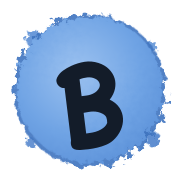
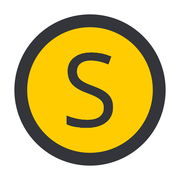
Лого SHMORKIZ: пігулка в сайдбарі й на логіні, кругле «S» для іконок
Сайдбар показує саму пігулку на висоті лого Workiz (80×26), без набраної
назви поруч; у згорнутому рейлі вона гасне, а на тому ж лівому краї
проявляється кругле «S», тож при анімації нічого не стрибає. Логін — та сама
пігулка, 44px.

Квадратним місцям (favicon, apple-icon, PWA 192/512/maskable) пігулка 3:1 не
влазить, тому там знак у кольорах лого: жовте коло в темному обідку з «S»,
вирізаною з самого лого. Усе генерує apps/web/design/make-icons.py з
shmorkiz-logo.png; старе джерело синього «B» (favicon.svg) прибране.

Назва застосунку в title/manifest лишилась BitCRM.

diff --git a/apps/web/components/shell/app-sidebar.test.tsx b/apps/web/components/shell/app-sidebar.test.tsx
@@ -36,23 +36,45 @@ describe("AppSidebar", () => {
     permissionsMock.mockReturnValue({ can: () => true, isTechnician: false });
     renderSidebar();
 
-    const homeLink = screen.getByRole("link", { name: "BitCRM home" });
+    const homeLink = screen.getByRole("link", { name: "Shmorkiz home" });
     expect(homeLink.querySelector("img")).not.toBeNull();
+  });
+
+  /**
+   * The logo is the SHMORKIZ pill, drawn the way Workiz draws its own: the
+   * wordmark alone, 26px tall (Workiz's is 80×26), with no name typed beside
+   * it — the pill already says it.
+   */
+  it("shows the Shmorkiz pill at Workiz's logo height and no typed name", () => {
+    permissionsMock.mockReturnValue({ can: () => true, isTechnician: false });
+    renderSidebar();
+
+    const homeLink = screen.getByRole("link", { name: "Shmorkiz home" });
+    const wordmark = homeLink.querySelector('[data-slot="brand-wordmark"]');
+    expect(wordmark?.tagName).toBe("IMG");
+    expect(wordmark?.className).toContain("h-[26px]");
+    expect(screen.queryByText("BitCRM")).toBeNull();
   });
 
   it("keeps the logo pinned during collapse instead of re-centering it", () => {
     permissionsMock.mockReturnValue({ can: () => true, isTechnician: false });
     renderSidebar();
 
-    const homeLink = screen.getByRole("link", { name: "BitCRM home" });
+    const homeLink = screen.getByRole("link", { name: "Shmorkiz home" });
     // No per-state alignment switch — a justify/padding swap is what made the
     // icon jump while the sidebar width animated.
     expect(homeLink.className).not.toContain("justify-center");
     expect(homeLink.className).toContain("overflow-hidden");
-    // The wordmark clips/fades out instead of popping from the layout.
-    expect(screen.getByText("BitCRM").className).toContain(
-      "group-data-[collapsible=icon]:opacity-0",
-    );
+    // The pill is too wide for the collapsed rail, so it clips/fades out
+    // instead of popping from the layout…
+    const wordmark = homeLink.querySelector('[data-slot="brand-wordmark"]');
+    expect(wordmark?.className).toContain("group-data-[collapsible=icon]:opacity-0");
+    // …while the round S mark fades in over the same left edge.
+    const mark = homeLink.querySelector('[data-slot="brand-mark"]');
+    expect(mark?.tagName).toBe("IMG");
+    expect(mark?.className).toContain("opacity-0");
+    expect(mark?.className).toContain("group-data-[collapsible=icon]:opacity-100");
+    expect(mark?.className).toContain("absolute");
   });
 
   it("renders a compact New Job button that collapses smoothly with the sidebar", () => {
@@ -289,7 +311,7 @@ describe("AppSidebar", () => {
   it("puts the rule exactly where the header's border is", () => {
     renderSidebar();
 
-    const brand = screen.getByLabelText("BitCRM home");
+    const brand = screen.getByLabelText("Shmorkiz home");
     expect(brand.className).toContain("h-12"); // 48px + the header's p-2 = 56px
   });
 });

diff --git a/apps/web/components/shell/app-sidebar.tsx b/apps/web/components/shell/app-sidebar.tsx
@@ -3,6 +3,7 @@
 import Image from "next/image";
 import Link from "next/link";
 import icon from "@/app/icon.png";
+import wordmark from "@/components/brand/wordmark.png";
 import { usePathname } from "next/navigation";
 import {
   Sidebar,
@@ -61,26 +62,35 @@ export function AppSidebar() {
   return (
     <Sidebar collapsible="icon">
       <SidebarHeader>
-        {/* Constant padding keeps the icon's x-position identical in both
-            sidebar states, so nothing jumps while the width animates; the
-            wordmark clips (overflow-hidden) and fades instead of popping. */}
+        {/* The SHMORKIZ pill, at Workiz's logo size (80×26). It is too wide
+            for the collapsed rail, so there it clips (overflow-hidden) and
+            fades while the round S mark fades in over the same left edge.
+            Constant padding keeps that edge identical in both sidebar states,
+            so nothing jumps while the width animates. */}
         <Link
           href="/"
           // h-12 + the sidebar header's p-2 puts the rule below on the same
           // line as the app header's bottom border (h-14 = 56px).
-          className="flex h-12 items-center gap-2 overflow-hidden px-0.5"
-          aria-label="BitCRM home"
+          className="relative flex h-12 items-center overflow-hidden px-0.5"
+          aria-label="Shmorkiz home"
         >
           <Image
+            data-slot="brand-wordmark"
+            src={wordmark}
+            alt=""
+            width={84}
+            height={26}
+            priority
+            className="h-[26px] w-auto max-w-none shrink-0 transition-opacity duration-200 ease-linear group-data-[collapsible=icon]:opacity-0"
+          />
+          <Image
+            data-slot="brand-mark"
             src={icon}
             alt=""
             width={28}
             height={28}
-            className="size-7 shrink-0"
+            className="absolute left-0.5 size-7 opacity-0 transition-opacity duration-200 ease-linear group-data-[collapsible=icon]:opacity-100"
           />
-          <span className="whitespace-nowrap text-base font-bold tracking-tight transition-opacity duration-200 ease-linear group-data-[collapsible=icon]:opacity-0">
-            BitCRM
-          </span>
         </Link>
         {/* Workiz rules a line under its logo, so the brand reads as a header
             and not as the first row of the menu. Full width in both states:

diff --git a/apps/web/components/auth/brand-logo.tsx b/apps/web/components/auth/brand-logo.tsx
@@ -1,13 +1,17 @@
 import Image from "next/image";
-import icon from "@/app/icon.png";
+import wordmark from "@/components/brand/wordmark.png";
 import { cn } from "@/lib/utils";
 
-/** BitCRM wordmark: blob logo + name. */
+/** The SHMORKIZ pill — the wordmark alone, since it already spells the name. */
 export function BrandLogo({ className }: { className?: string }) {
   return (
-    <div className={cn("flex items-center gap-2.5", className)}>
-      <Image src={icon} alt="" width={44} height={44} className="size-11" />
-      <span className="text-2xl font-bold tracking-tight">BitCRM</span>
-    </div>
+    <Image
+      src={wordmark}
+      alt="Shmorkiz"
+      width={142}
+      height={44}
+      priority
+      className={cn("h-11 w-auto", className)}
+    />
   );
 }

diff --git a/apps/web/components/auth/brand-logo.test.tsx b/apps/web/components/auth/brand-logo.test.tsx
@@ -1,0 +1,12 @@
+import { describe, it, expect } from "vitest";
+import { render, screen } from "@testing-library/react";
+import { BrandLogo } from "./brand-logo";
+
+describe("BrandLogo", () => {
+  it("is the Shmorkiz pill, with no typed name beside it", () => {
+    render(<BrandLogo />);
+
+    expect(screen.getByRole("img", { name: "Shmorkiz" })).toBeInTheDocument();
+    expect(screen.queryByText("BitCRM")).toBeNull();
+  });
+});

diff --git a/apps/web/design/make-icons.py b/apps/web/design/make-icons.py
@@ -1,0 +1,100 @@
+"""
+Builds every logo and icon the web app ships from one source: shmorkiz-logo.png.
+
+    python3 apps/web/design/make-icons.py      (needs Pillow)
+
+The wordmark is the source pill with its transparent margin trimmed. Square
+places (favicon, home-screen icons, the collapsed sidebar) cannot fit a 3:1
+pill, so they get a round mark in the same colours: the pill's yellow inside its
+dark ring, with the pill's own "S" cut out of the source. That keeps the letter
+in the logo's typeface without needing the font.
+
+The S is only ~150px tall in the source, so it is upscaled, thresholded and
+scaled back down. That gives clean edges at 512px instead of a blurry blow-up.
+"""
+
+from pathlib import Path
+
+from PIL import Image, ImageDraw
+
+HERE = Path(__file__).resolve().parent
+WEB = HERE.parent
+SOURCE = HERE / "shmorkiz-logo.png"
+
+YELLOW = (255, 204, 2, 255)
+DARK = (51, 53, 58, 255)
+WHITE = (255, 255, 255, 255)
+
+WORK = 4096  # the mark is drawn this big, then scaled down to each size
+RING = 0.085  # ring thickness / diameter: the pill's ring is 40px of 481
+LETTER = 0.50  # the S's height / diameter
+
+
+def wordmark(src: Image.Image) -> Image.Image:
+    return src.crop(src.getchannel("A").getbbox())
+
+
+def letter_s(src: Image.Image) -> Image.Image:
+    """The S as a coverage mask: 0 on the yellow, 255 on the dark ink."""
+    box = src.crop((270, 170, 395, 350)).convert("RGB")
+    yr, dr = YELLOW[0], DARK[0]
+    cov = box.getchannel("R").point(lambda r: max(0, min(255, round((yr - r) * 255 / (yr - dr)))))
+    return cov.crop(cov.getbbox())
+
+
+def mark(s: Image.Image, diameter: int) -> Image.Image:
+    """The round mark on a transparent WORK×WORK canvas, `diameter` across."""
+    img = Image.new("RGBA", (WORK, WORK), (0, 0, 0, 0))
+    d = ImageDraw.Draw(img)
+    o = (WORK - diameter) // 2
+    d.ellipse((o, o, o + diameter, o + diameter), fill=DARK)
+    ring = round(diameter * RING)
+    d.ellipse((o + ring, o + ring, o + diameter - ring, o + diameter - ring), fill=YELLOW)
+
+    h = round(diameter * LETTER)
+    w = round(s.width * h / s.height)
+    glyph = s.resize((w, h), Image.LANCZOS).point(lambda v: 255 if v >= 128 else 0)
+    ink = Image.new("RGBA", (w, h), DARK)
+    img.paste(ink, ((WORK - w) // 2, (WORK - h) // 2), glyph)
+    return img
+
+
+def on(bg, img: Image.Image) -> Image.Image:
+    canvas = Image.new("RGBA", img.size, bg)
+    canvas.alpha_composite(img)
+    return canvas
+
+
+def size(img: Image.Image, px: int) -> Image.Image:
+    return img.resize((px, px), Image.LANCZOS)
+
+
+def main() -> None:
+    src = Image.open(SOURCE).convert("RGBA")
+    s = letter_s(src)
+
+    wordmark(src).save(WEB / "components/brand/wordmark.png", optimize=True)
+
+    # "any" icons: the mark edge to edge, transparent around it.
+    full = mark(s, round(WORK * 0.96))
+    size(full, 512).save(WEB / "app/icon.png", optimize=True)
+    size(full, 512).save(WEB / "public/icons/icon-512.png", optimize=True)
+    size(full, 192).save(WEB / "public/icons/icon-192.png", optimize=True)
+    size(full, 48).save(
+        WEB / "app/favicon.ico", sizes=[(16, 16), (32, 32), (48, 48)]
+    )
+
+    # iOS fills transparency with black and rounds the corners itself, so the
+    # apple icon is opaque white with the mark inset from the corner cut.
+    apple = on(WHITE, mark(s, round(WORK * 0.84))).convert("RGB")
+    size(apple, 180).save(WEB / "app/apple-icon.png", optimize=True)
+    size(apple, 180).save(WEB / "public/icons/icon-180.png", optimize=True)
+
+    # Maskable: opaque, the mark at two thirds of the width so any launcher
+    # shape (inside the 80% safe circle) keeps all of it.
+    maskable = on(WHITE, mark(s, round(WORK * 2 / 3))).convert("RGB")
+    size(maskable, 512).save(WEB / "public/icons/icon-512-maskable.png", optimize=True)
+
+
+if __name__ == "__main__":
+    main()
